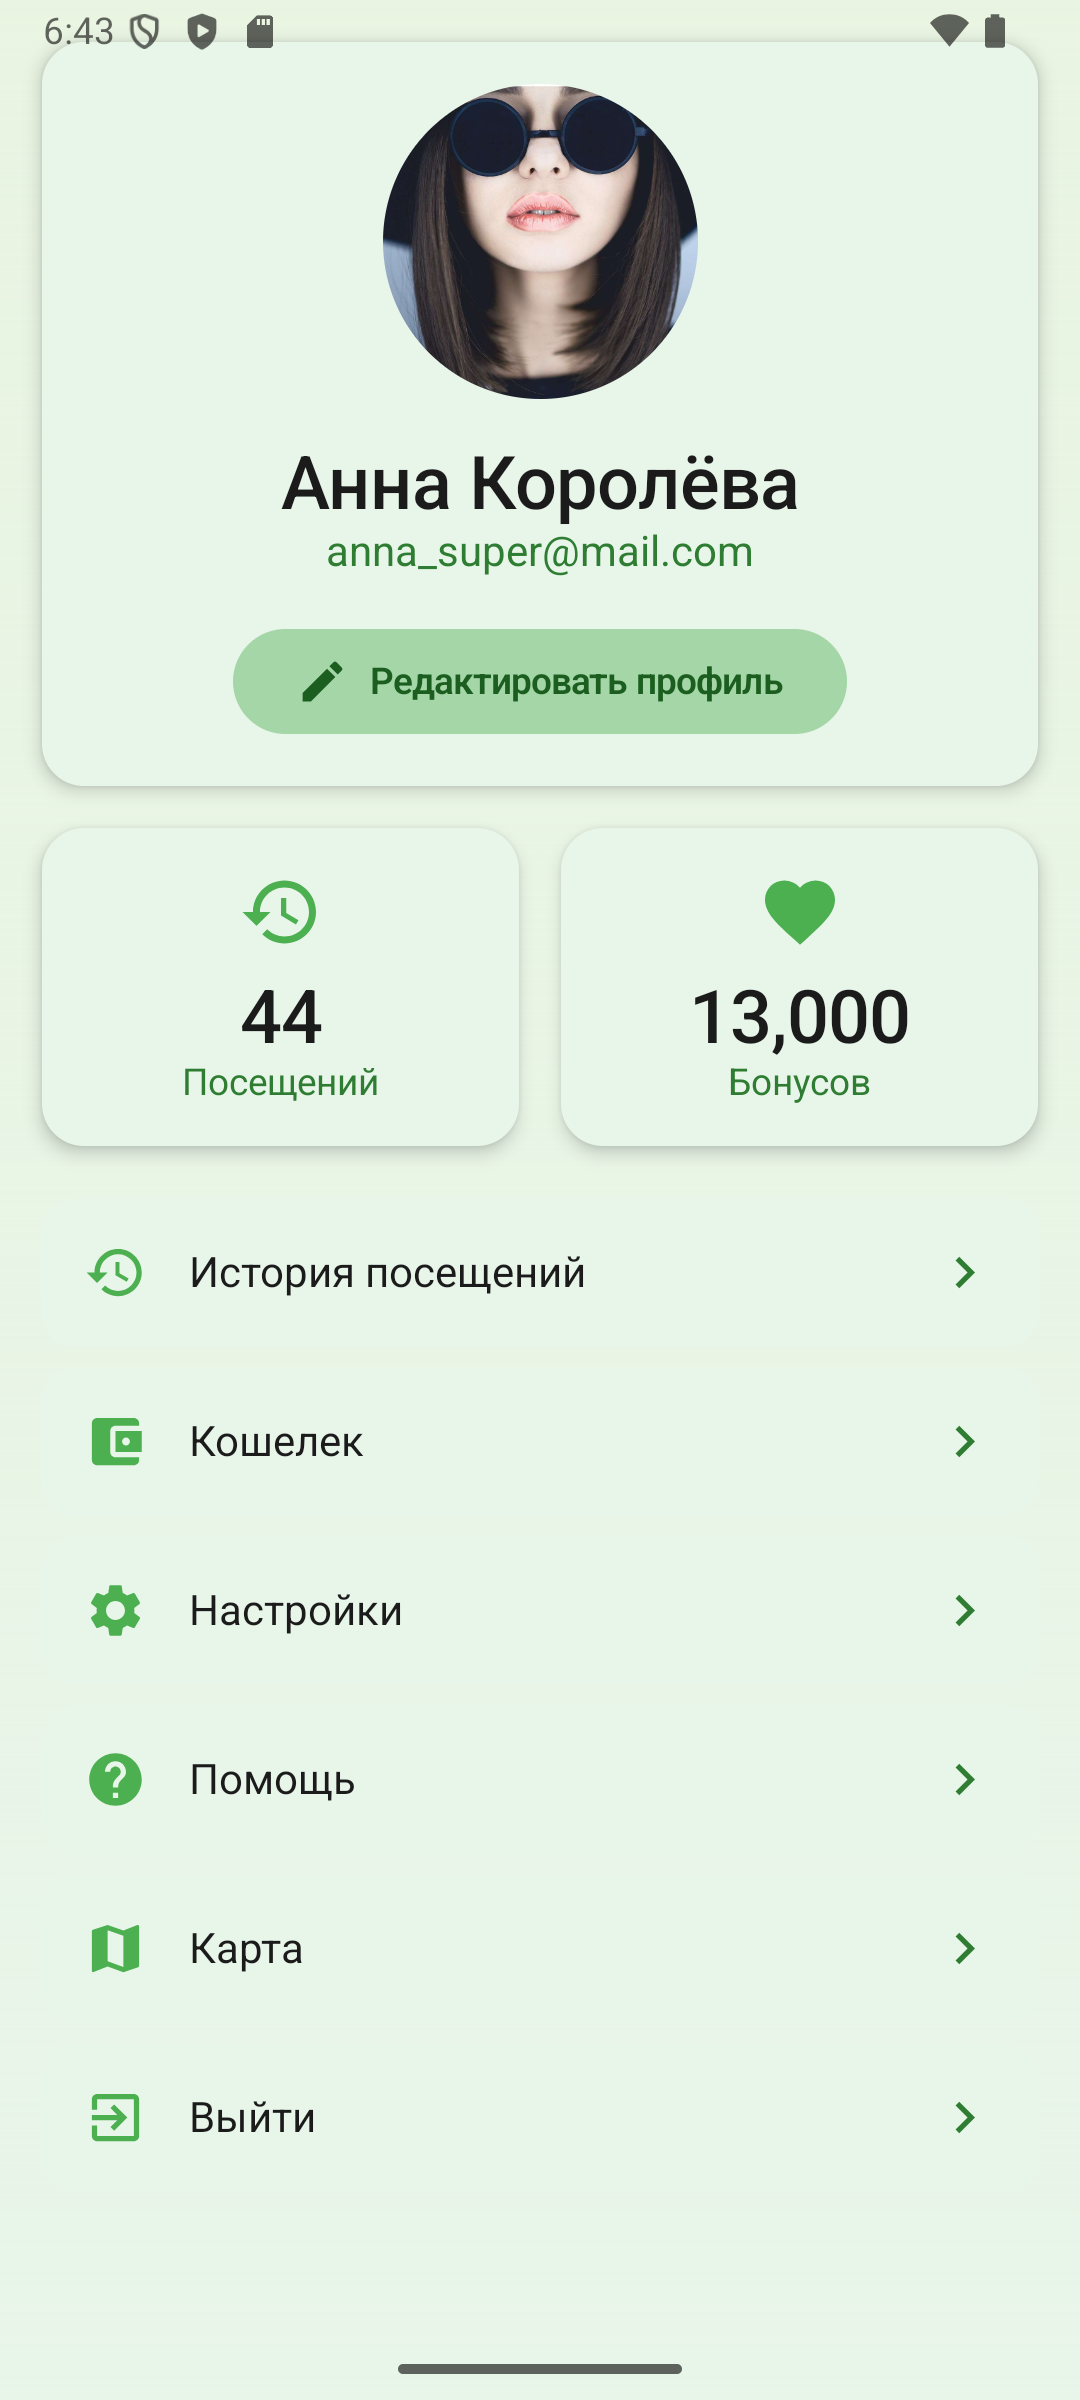
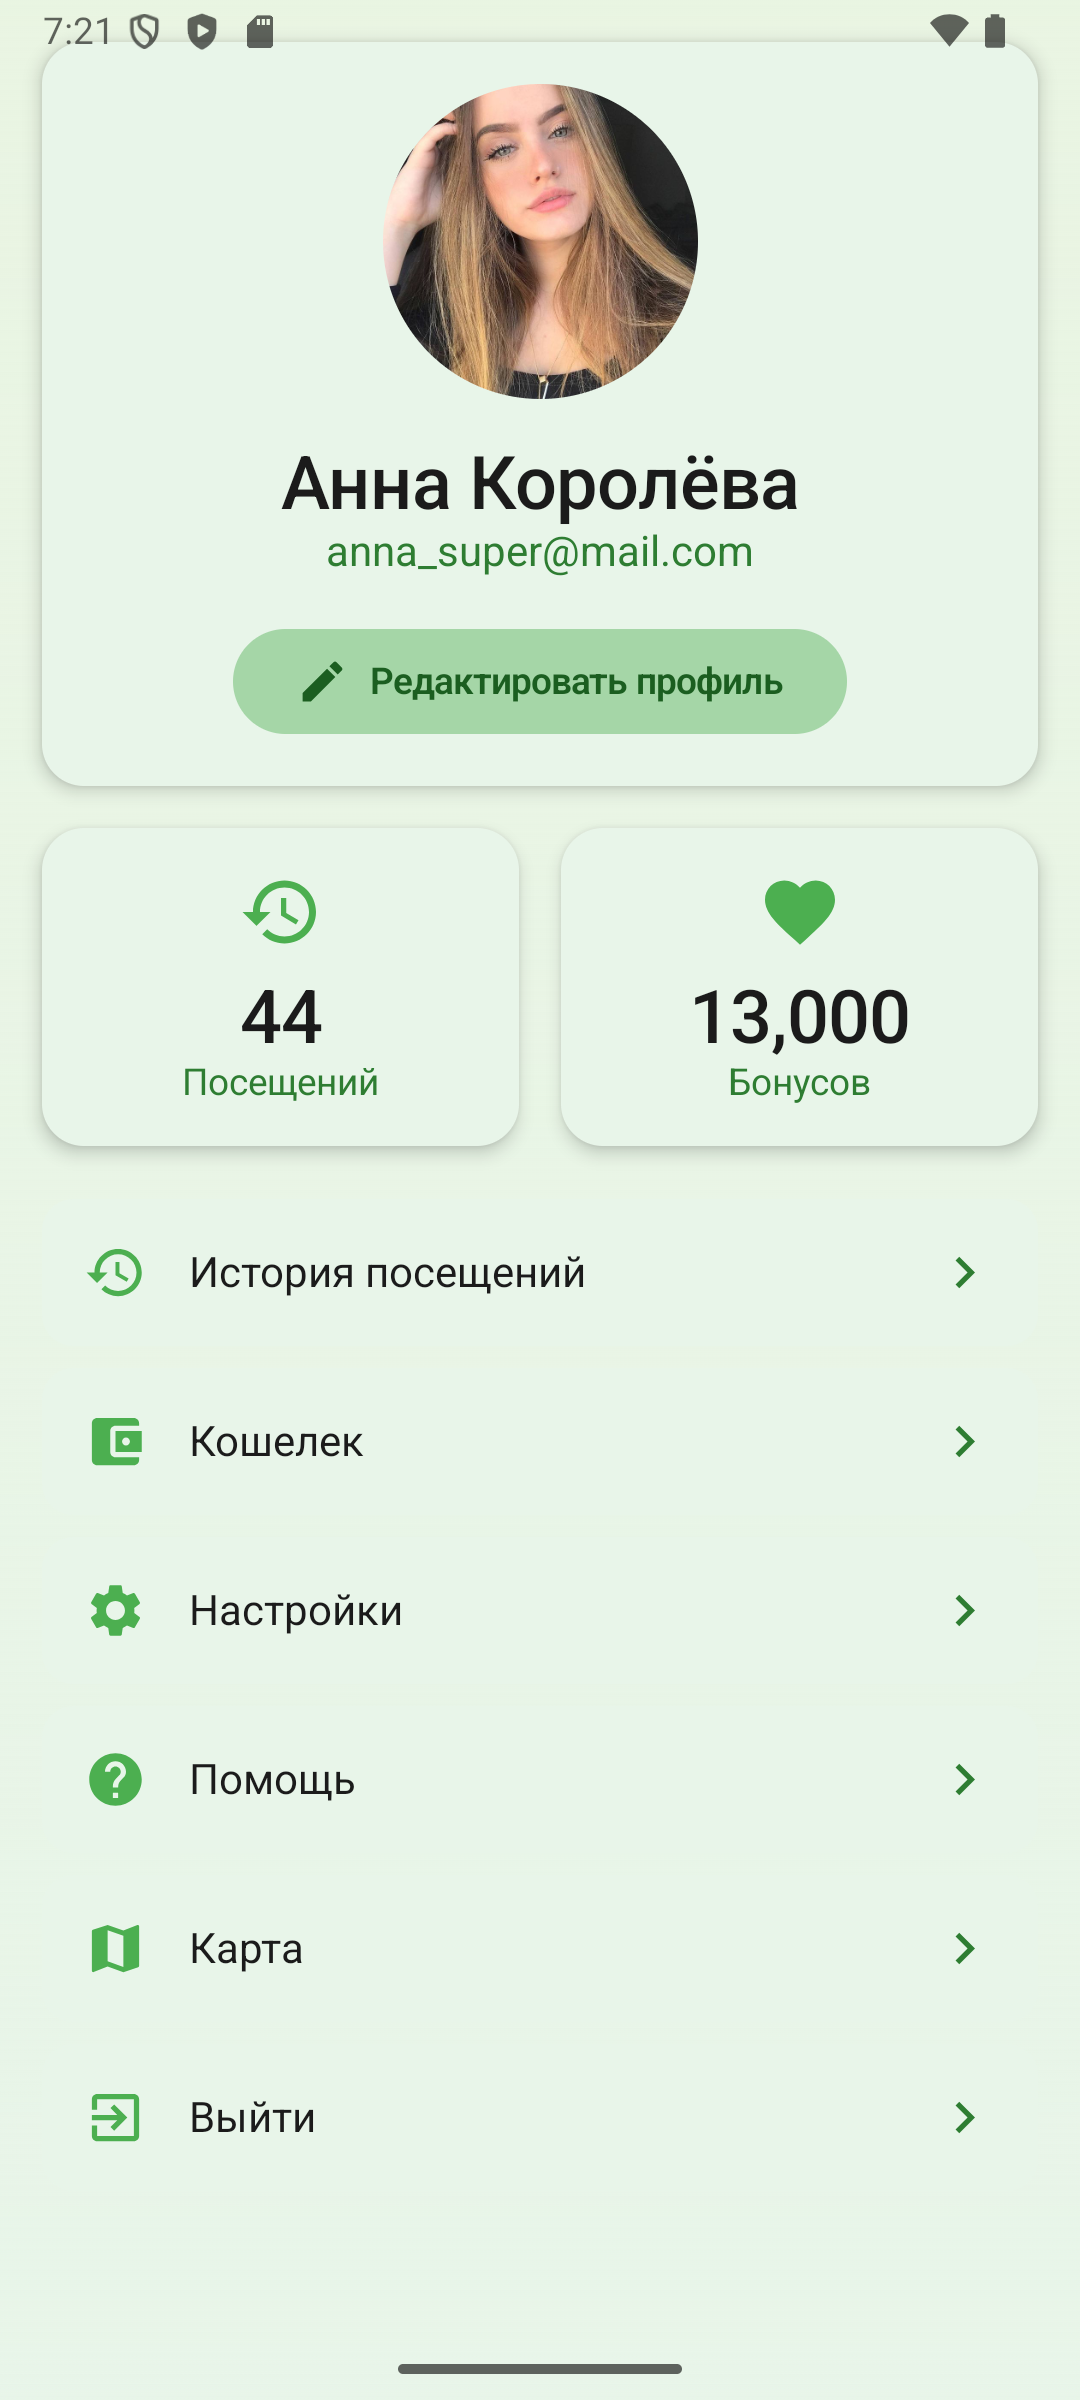
Обновлены фото

Changed region(s): [[0.3361, 0.0312, 0.6417, 0.1875], [0.0306, 0.0, 0.0917, 0.0312]]

diff --git a/app/src/main/java/com/students/salonapp/ui/screens/ProfileScreen.kt b/app/src/main/java/com/students/salonapp/ui/screens/ProfileScreen.kt
@@ -18,6 +18,7 @@ import androidx.compose.ui.draw.clip
 import androidx.compose.ui.draw.shadow
 import androidx.compose.ui.graphics.Brush
 import androidx.compose.ui.layout.ContentScale
+import androidx.compose.ui.platform.LocalContext
 import androidx.compose.ui.unit.dp
 import coil.compose.AsyncImage
 import com.students.salonapp.ui.theme.*
@@ -69,12 +70,16 @@ fun ProfileScreen(
                             .padding(16.dp),
                         horizontalAlignment = Alignment.CenterHorizontally
                     ) {
+                        val context = LocalContext.current
+                        val imageResId = remember {
+                            context.resources.getIdentifier("girl", "drawable", context.packageName)
+                        }
                         AsyncImage(
-                            model = "https://avatars.mds.yandex.net/get-yapic/30955/NLUmmLjsxg2qXO7S4xAy9lFGDkA-1/orig",
+                            model = imageResId,
                             contentDescription = "Аватар",
                             modifier = Modifier
                                 .size(120.dp)
-                                .clip(CircleShape), // убрана тень и белая заливка
+                                .clip(CircleShape),
                             contentScale = ContentScale.Crop
                         )
                         

diff --git a/app/src/main/java/com/students/salonapp/ui/screens/HomeScreen.kt b/app/src/main/java/com/students/salonapp/ui/screens/HomeScreen.kt
@@ -105,8 +105,12 @@ fun HomeScreen(
                         .shadow(8.dp, RoundedCornerShape(24.dp))
                         .background(salonGreenOnPrimaryContainer, RoundedCornerShape(24.dp))
                 ) {
+                    val context = LocalContext.current
+                    val imageResId = remember {
+                        context.resources.getIdentifier("girl", "drawable", context.packageName)
+                    }
                     AsyncImage(
-                        model = "https://avatars.mds.yandex.net/get-yapic/30955/NLUmmLjsxg2qXO7S4xAy9lFGDkA-1/orig",
+                        model = imageResId,
                         contentDescription = "Аватар",
                         modifier = Modifier
                             .size(120.dp)
